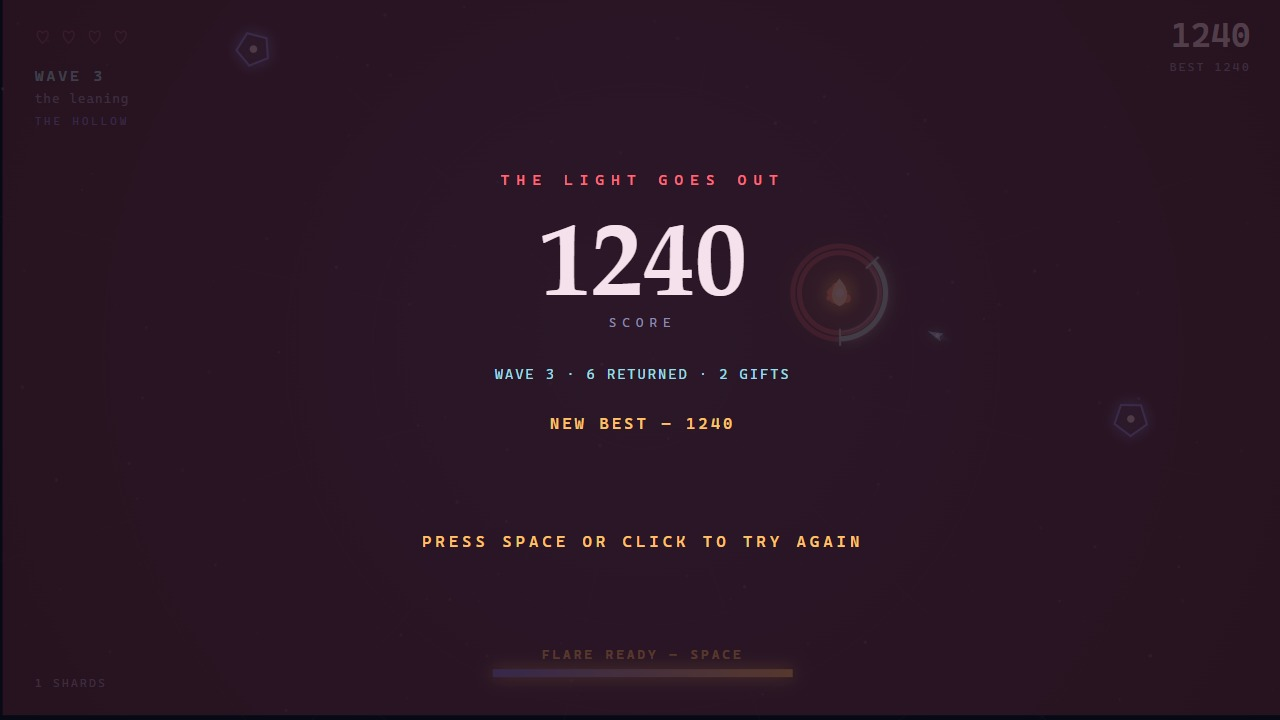
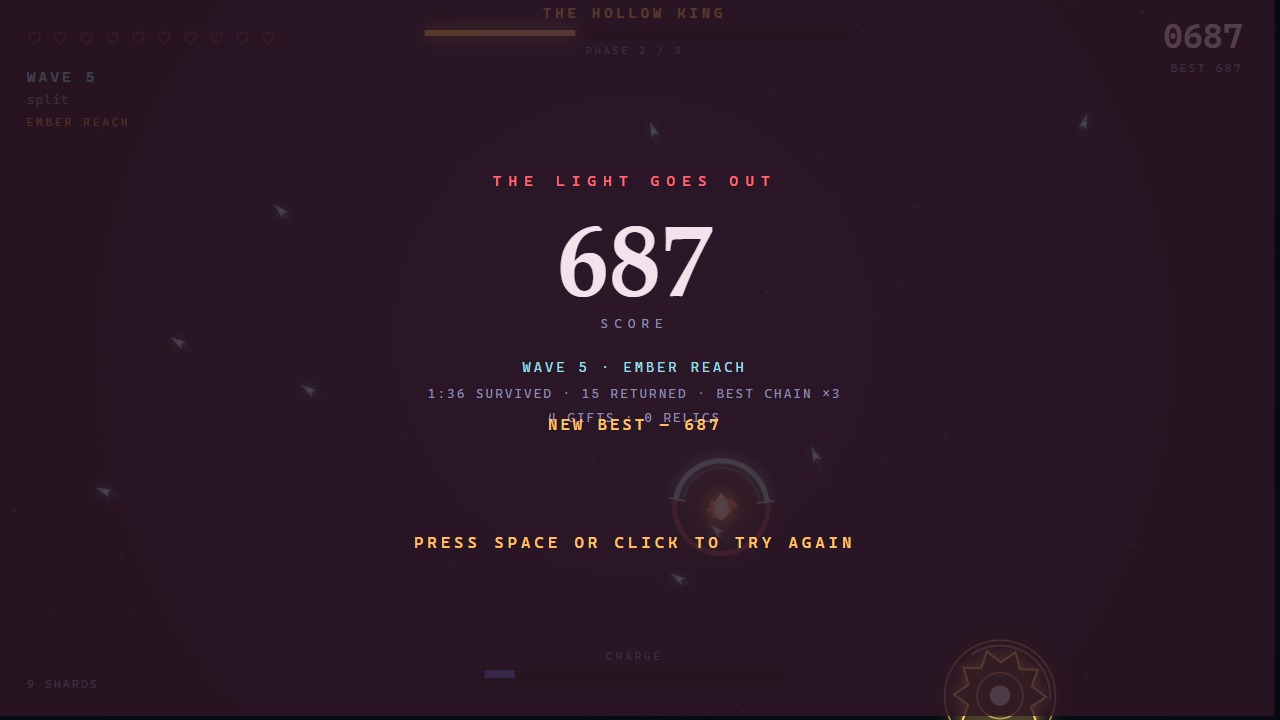
End screen reports the run, not just the score
Time survived, best chain, zone reached, gifts taken and relics earned, so a finished run says
what happened in it. The screenshot is now a real run played to its death rather than a posed
wave-five ending.

diff --git a/game/src/shots.js b/game/src/shots.js
@@ -200,12 +200,12 @@ export function stageShot(name, world) {
     return { screen: 'play', hover: 0 };
   }
 
-  if (name === 'boss') {
-    world.reset();
-    // A boss sits at wave five, past where a four-heart run usually ends, so this scene hands the warden
-    // the loadout a player would plausibly hold by then: two Step cards, two Wider Ward cards, a Hot
-    // Mirror, a Steady Hand, a Lasting Light and the extra hearts two Steady Wicks buy. Every card is one
-    // the game really offers, and every frame after this is the real rules run by the real autopilot.
+  /**
+   * A warden handed the loadout a player plausibly holds by wave five: two Step cards, two Wider Ward
+   * cards, a Hot Mirror, a Steady Hand, a Lasting Light and the hearts two Steady Wicks buy. Every one is
+   * a card the game really offers, and every frame after this is the real rules and the real autopilot.
+   */
+  const handoff = () => {
     state.mods.maxHearts = 9;
     state.hearts = 9;
     state.mods.speed *= 1.12 * 1.12;
@@ -213,6 +213,15 @@ export function stageShot(name, world) {
     state.mods.reflectDamage *= 1.35;
     state.mods.turnMul *= 1.35;
     state.mods.shardLife *= 1.25;
+  };
+
+  if (name === 'boss') {
+    world.reset();
+    // A boss sits at wave five, past where a four-heart run usually ends, so this scene hands the warden
+    // the loadout a player would plausibly hold by then: two Step cards, two Wider Ward cards, a Hot
+    // Mirror, a Steady Hand, a Lasting Light and the extra hearts two Steady Wicks buy. Every card is one
+    // the game really offers, and every frame after this is the real rules run by the real autopilot.
+    handoff();
 
     let frame = null;
     let frameScore = -1;
@@ -252,11 +261,21 @@ export function stageShot(name, world) {
 
   if (name === 'over') {
     world.reset();
-    runUntil(() => state.wave >= 5, 20000);
-    state.hearts = 0;
-    state.score = Math.max(state.score, 1240);
-    state.chain = 0;
-    world.endRun();
+    handoff();
+    // Play the run out for real and let it end where it ends: the summary then reports a run that happened,
+    // bosses and relics included, rather than a wave-five death posed for the camera.
+    let ended = false;
+    for (let step = 0; step < 60000; step += 1) {
+      if (state.phase === 'upgrade') { world.chooseUpgrade(0); continue; }
+      if (state.phase === 'over') { ended = true; break; }
+      world.step(STEP, autopilot(state));
+    }
+    if (!ended) {
+      // Still standing after the loop: finish the run deliberately so the screen is the real summary.
+      state.hearts = 0;
+      state.chain = 0;
+      world.endRun();
+    }
     return { screen: 'over', hover: 0 };
   }
 

diff --git a/game/src/render.js b/game/src/render.js
@@ -613,8 +613,16 @@ export function createRenderer(canvas) {
       size: 104, font: SERIF, align: 'center', colour: '#f2f7ff', weight: '600',
     });
     text('SCORE', FIELD.width / 2, 332, { size: 13, align: 'center', colour: PALETTE.dim, spacing: 6 });
-    text(`WAVE ${state.wave} \u00b7 ${state.kills} RETURNED \u00b7 ${state.upgrades.length} GIFTS`, FIELD.width / 2, 384, {
-      size: 14, align: 'center', colour: PALETTE.ward, spacing: 2,
+    // The run's own arithmetic, because a score on its own says nothing about how the run went.
+    const survived = `${Math.floor(state.time / 60)}:${String(Math.floor(state.time % 60)).padStart(2, '0')}`;
+    text(`WAVE ${state.wave}${state.zoneName ? ` \u00b7 ${state.zoneName}` : ''}`, FIELD.width / 2, 376, {
+      size: 14, align: 'center', colour: PALETTE.ward, spacing: 3,
+    });
+    text(`${survived} SURVIVED \u00b7 ${state.kills} RETURNED \u00b7 BEST CHAIN \u00d7${Math.max(1, state.bestChain)}`, FIELD.width / 2, 402, {
+      size: 13, align: 'center', colour: PALETTE.dim, spacing: 2,
+    });
+    text(`${state.upgrades.length} GIFTS \u00b7 ${(state.relics || []).length} ${(state.relics || []).length === 1 ? 'RELIC' : 'RELICS'}`, FIELD.width / 2, 426, {
+      size: 13, align: 'center', colour: (state.relics || []).length ? PALETTE.gold : PALETTE.dim, spacing: 2,
     });
     text(bested ? `NEW BEST \u2014 ${state.score}` : `BEST ${best}`, FIELD.width / 2, 434, {
       size: 16, align: 'center', colour: bested ? PALETTE.gold : PALETTE.dim, spacing: 3, weight: '600',

diff --git a/game/src/world.js b/game/src/world.js
@@ -72,6 +72,12 @@ export function createWorld(random) {
     kills: 0,
     chain: 0,
     chainTimer: 0,
+    bestChain: 0,
+    relics: [],
+    zone: null,
+    zoneName: '',
+    offerKind: 'upgrade',
+    pendingRelic: false,
     charge: 0,
     mods: freshMods(),
     upgrades: [],
@@ -100,6 +106,8 @@ export function createWorld(random) {
     state.kills = 0;
     state.chain = 0;
     state.chainTimer = 0;
+    state.bestChain = 0;
+    state.relics = [];
     state.charge = 0;
     state.mods = freshMods();
     state.upgrades = [];
@@ -211,6 +219,7 @@ export function createWorld(random) {
     state.kills += 1;
     state.chainTimer = SCORE.chainWindow;
     state.chain = Math.min(SCORE.chainMax + 1, state.chain + 1);
+    if (state.chain > state.bestChain) state.bestChain = state.chain;
     const multiplier = 1 + (state.chain - 1) * SCORE.chainStep;
     state.score += Math.round(SCORE.perKill * multiplier);
     const colour = enemy.kind === 'lurker' ? '#ff5d8f' : enemy.kind === 'splitter' ? '#a678ff'
@@ -598,6 +607,8 @@ export function createWorld(random) {
     const upgrade = state.offer[index];
     if (!upgrade) return false;
     applyUpgrade(state, upgrade);
+    // Relics are the boss cards: the summary counts them apart from ordinary gifts.
+    if (String(upgrade.id).startsWith('relic-')) state.relics.push(upgrade.id);
     state.offer = [];
     startWave();
     return true;
